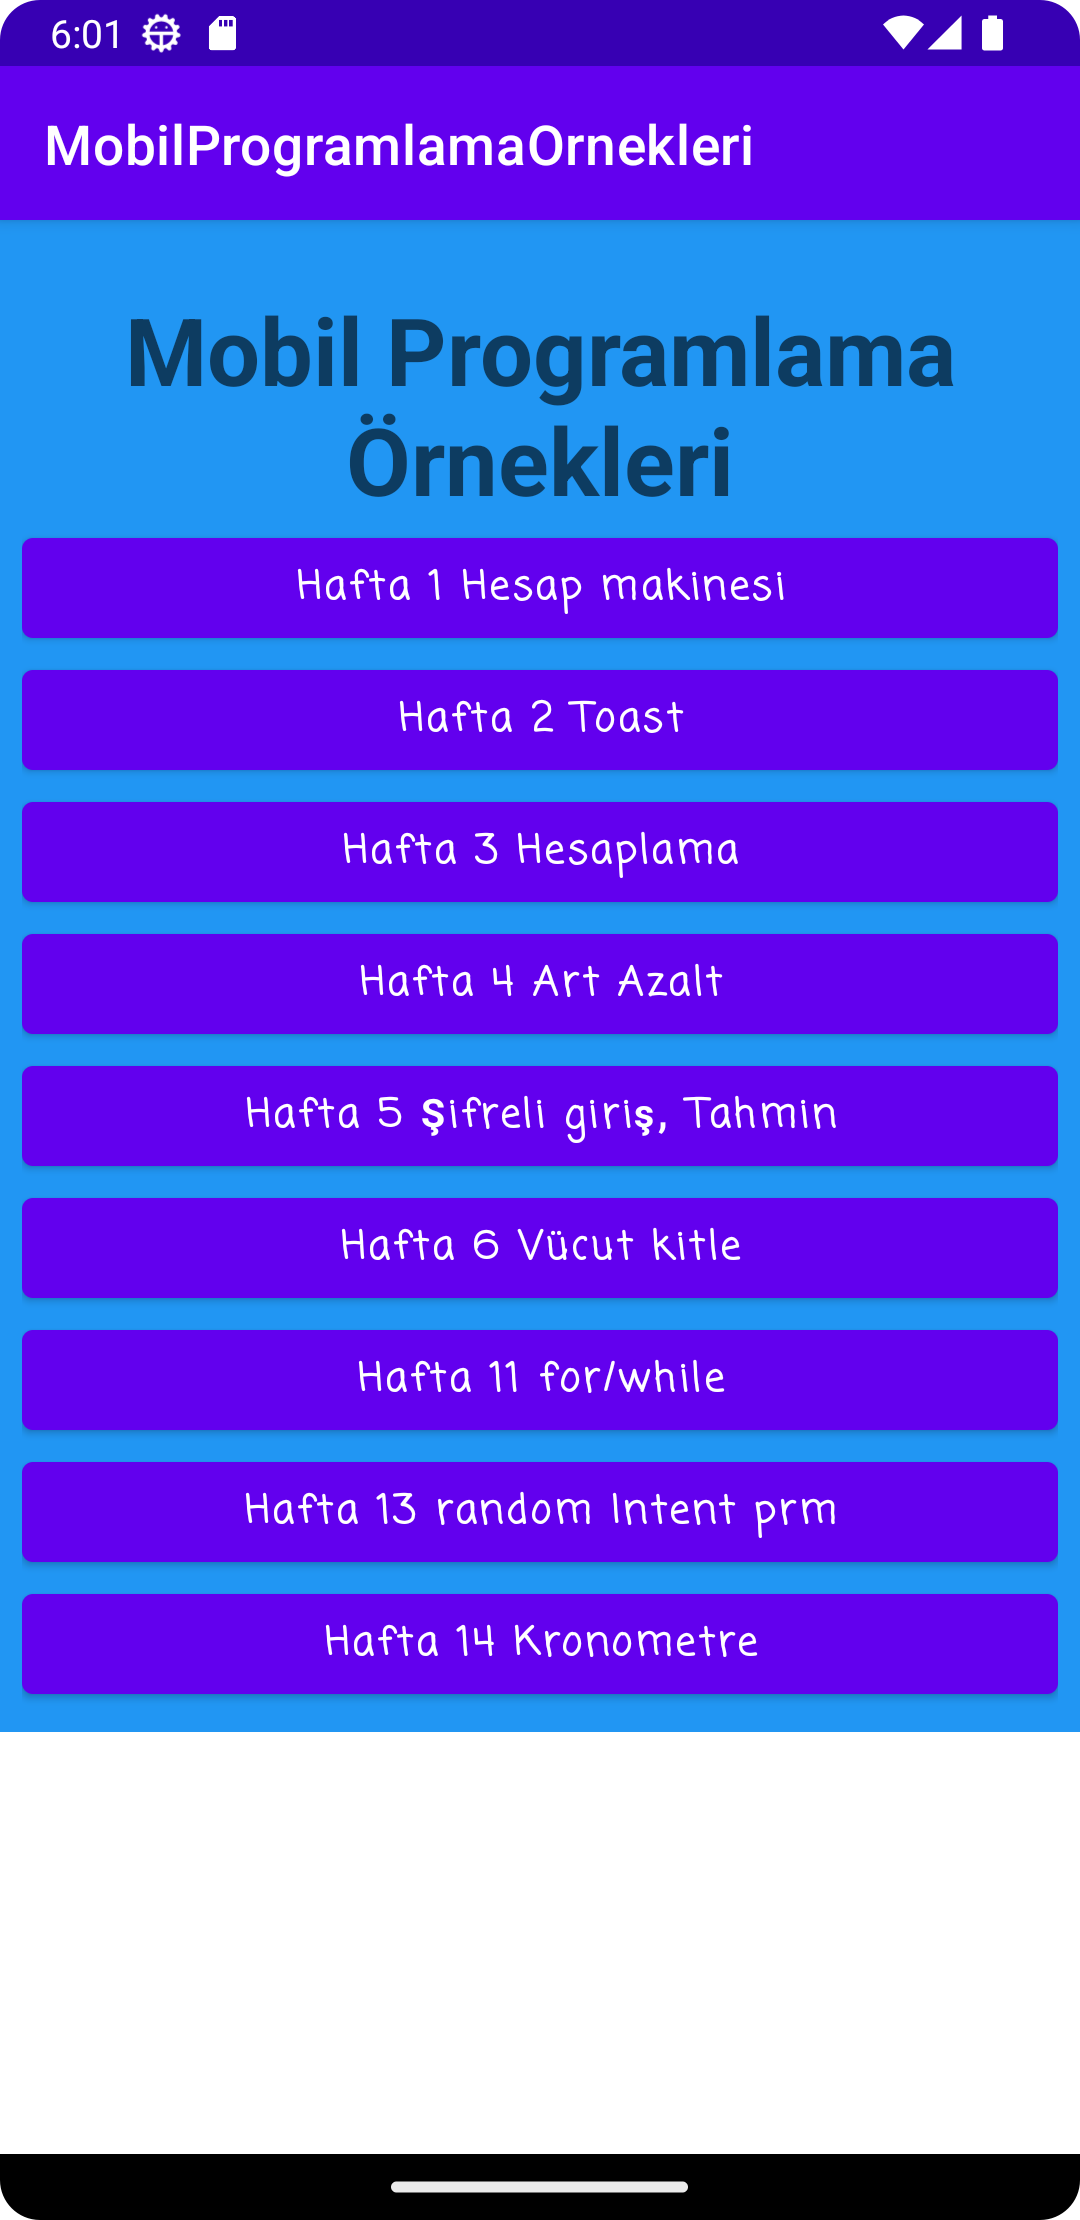
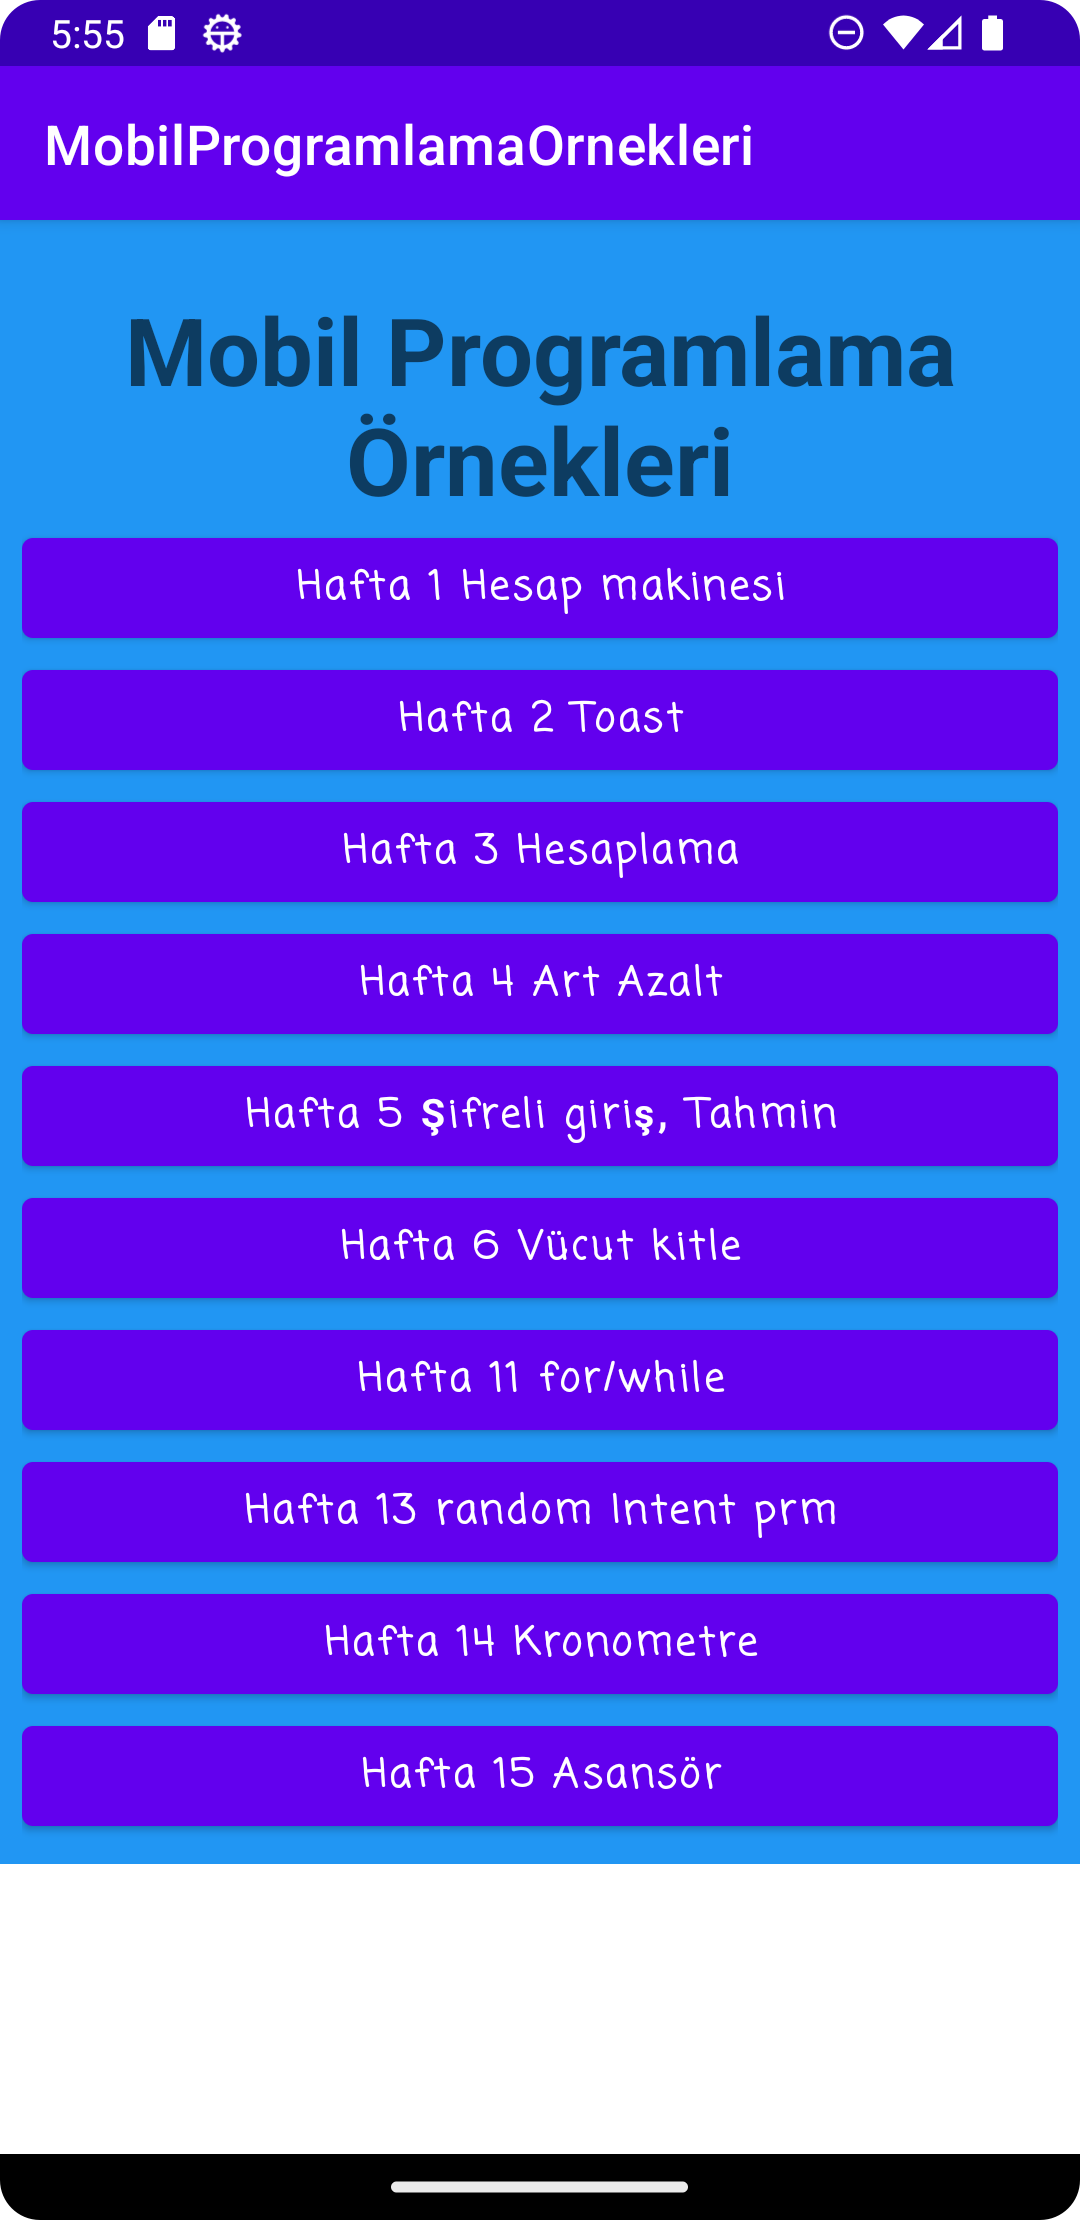
h15
asansör eklendi

diff --git a/app/src/main/java/com/example/mobilprogramlamaornekleri/MainActivityH15.java b/app/src/main/java/com/example/mobilprogramlamaornekleri/MainActivityH15.java
@@ -1,0 +1,119 @@
+package com.example.mobilprogramlamaornekleri;
+
+import androidx.appcompat.app.AppCompatActivity;
+
+import android.os.Bundle;
+import android.view.View;
+import android.widget.ImageButton;
+
+public class MainActivityH15 extends AppCompatActivity {
+
+    ImageButton kabin, kapi;
+
+    int hangiKat = 3;
+    boolean kabinHareketliMi = false;   //hareket ederken çağrı düğmeleri çalışamaz
+    boolean kapiHareketliMi = false;    //hareket ederken tekrar çalışamasın
+    int birimKatYuksekligi = 575;   //kat yüksekliği
+    int kabinHizi = 1500;           //1500 milisaniye
+
+    @Override
+    protected void onCreate(Bundle savedInstanceState) {
+        super.onCreate(savedInstanceState);
+        setContentView(R.layout.activity_main_h15);
+
+        kabin = findViewById(R.id.imageButton);
+        kapi = findViewById(R.id.imageButton3);
+    }
+
+    public void kabinHareketEt(int kacKatGidecek, int yon) {
+        kabin.animate().translationYBy(birimKatYuksekligi * yon * kacKatGidecek).
+                setStartDelay(500).
+                withStartAction(    //hareket öncesi tetiklenir
+                        new Runnable() {
+                            @Override
+                            public void run() {
+                                kabinHareketliMi = true;
+                            }
+                        }
+                ).withEndAction(   //hareket sonrası tetiklenir
+                        new Runnable() {
+                            @Override
+                            public void run() {
+                                kabinHareketliMi = false;
+
+                                //artık kabin hedefe ulaştı ise
+                                kapiAcKapa();
+                            }
+                        }
+                ).setDuration(kabinHizi * kacKatGidecek);
+        kapi.animate().translationYBy(birimKatYuksekligi * yon * kacKatGidecek).
+                setStartDelay(500).setDuration(kabinHizi * kacKatGidecek);
+        //kapı ve kabin aynı anda hareket etmeli, sanki gruplanmış gibi
+    }
+
+    private void kapiAcKapa() {
+        kapi.animate().scaleX(0.1f).translationX(-220).
+                setStartDelay(20).setDuration(500).
+                withStartAction(new Runnable() {
+                    @Override
+                    public void run() {
+                        kapiHareketliMi = true;
+                    }
+                }).
+                withEndAction(new Runnable() {
+                                  @Override
+                                  public void run() {
+                                      kapiHareketliMi = false;
+                                      kapi.animate().scaleX(1f).translationX(0).
+                                              setStartDelay(1000).  //binmeye fırsat için gecikme
+                                              withStartAction(new Runnable() {
+                                                  @Override
+                                                  public void run() {
+                                                      kapiHareketliMi = true;
+                                                  }
+                                              }).
+                                              withEndAction(new Runnable() {
+                                                  @Override
+                                                  public void run() {
+                                                      kapiHareketliMi = false;
+                                                  }
+                                              }).setDuration(500);
+                                  }
+                              }
+                );
+    }
+
+    public void cagir1(View view) {
+        if (kabinHareketliMi || kapiHareketliMi) return; //zaten hareket var, programı kes
+        if (hangiKat == 3)
+            kabinHareketEt(2, 1);    //2 kat aşağı
+        if (hangiKat == 2)
+            kabinHareketEt(1, 1);    //1 kat aşağı
+        if (hangiKat == 1)
+            kapiAcKapa();                             //sadece kapıyı aç
+        hangiKat = 1;   //güncel kat
+    }
+
+
+    public void cagir2(View view) {
+        if (kabinHareketliMi || kapiHareketliMi) return; //zaten hareket var, programı kes
+        if (hangiKat == 3)
+            kabinHareketEt(1, 1);    //1 kat yukarı
+        if (hangiKat == 2)
+            kapiAcKapa();                             //sadece kapıyı aç
+        if (hangiKat == 1)
+            kabinHareketEt(1, -1);   //1 kat aşağı
+        hangiKat = 2;  //güncel kat
+    }
+
+    public void cagir3(View view) {
+        if (kabinHareketliMi || kapiHareketliMi) return; //zaten hareket var, programı kes
+        if (hangiKat == 3)
+            kapiAcKapa();                             //sadece kapıyı aç
+        if (hangiKat == 2)
+            kabinHareketEt(1, -1);   //1 kat yukarı
+        if (hangiKat == 1)
+            kabinHareketEt(2, -1);   //2 kat yukarı
+        hangiKat = 3;  //güncel kat
+    }
+}

diff --git a/app/src/main/java/com/example/mobilprogramlamaornekleri/MainActivity.java b/app/src/main/java/com/example/mobilprogramlamaornekleri/MainActivity.java
@@ -58,4 +58,9 @@ public class MainActivity extends AppCompatActivity {
         Intent i = new Intent(this, MainActivityH14.class);
         startActivity(i);
     }
+
+    public void h15(View view) {
+        Intent i = new Intent(this, MainActivityH15.class);
+        startActivity(i);
+    }
 }

diff --git a/README.md b/README.md
@@ -11,3 +11,4 @@
 ![Hafta 11](https://github.com/tbagriyanik/Mobil-Programlama/blob/main/h11.png)
 ![Hafta 13](https://github.com/tbagriyanik/Mobil-Programlama/blob/main/h13.png)
 ![Hafta 14](https://github.com/tbagriyanik/Mobil-Programlama/blob/main/h14.png)
+![Hafta 15](https://github.com/tbagriyanik/Mobil-Programlama/blob/main/h15.png)
